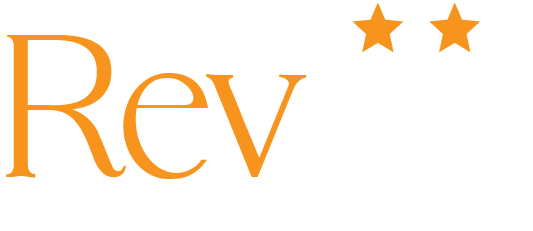
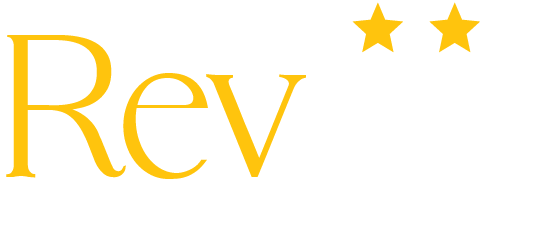
feature - new changes

Changed region(s): [[0.0, 0.1515, 0.5704, 0.7879], [0.8105, 0.0303, 0.9006, 0.2121], [0.6604, 0.0303, 0.7505, 0.2121]]

diff --git a/styles.css b/styles.css
@@ -1,83 +1,126 @@
 body {
-    width: 300px;
-    height: 380px;
-    margin: 0;
-    padding: 10px;
-    background-color: #2a2a2a;
-    font-family: 'Century Gothic', sans-serif;
-    color: rgb(255, 255, 255);
-  }
+  width: 300px;
+  height: 380px;
+  margin: 0;
+  padding: 10px;
+  background-color: #2a2a2a;
+  font-family: 'Century Gothic', sans-serif;
+  color: rgb(255, 255, 255);
+}
 
-  .tagline {
-    text-align: center;
-    font-family: 'Quicksand', sans-serif;
-    color: #f7941d;
-    text-shadow: 2px 2px 2px rgba(60, 60, 60, 0.5);
-    /* text-transform: uppercase; */
-  }
+.tagline {
+  text-align: center;
+  font-family: 'Poppins', sans-serif;
+  color: #FFC300;
+  text-shadow: 2px 2px 2px rgba(60, 60, 60, 0.5);
+  /* text-transform: uppercase; */
+}
 
-  img {
-    padding-top: 10px;
-    display: block;
-    margin: auto;
-    width: 127px;
-    height: 55px;
-  }
+img {
+  padding-top: 10px;
+  display: block;
+  margin: auto;
+  width: 127px;
+  height: 55px;
+}
 
-  form {
-    display: flex;
-    flex-direction: column;
-    justify-content: space-around;
-    height: 200px;
-  }
+form {
+  display: flex;
+  flex-direction: column;
+  justify-content: space-around;
+  height: 200px;
+}
 
-  .review-label {
-    font-size: 16px;
-    margin-bottom: 10px;
-    font-family: 'Quicksand', sans-serif;
+.review-label {
+  font-size: 16px;
+  margin-bottom: 10px;
+  font-family: 'Poppins', sans-serif;
 
-  }
+}
 
-  .review-textarea {
-    height: 100px;
-    resize: none;
-    font-size: 13px;
-    padding: 5px;
-    border: 1px solid #ffffff3a;
-    background-color: transparent;
-    color: #ffffff;
-    font-family: 'Quicksand', sans-serif;
-    transition: background-color 0.3s, color 0.3s;
-    border-radius: 10px;
-    overflow: hidden;
-  }
+.review-textarea {
+  height: 100px;
+  resize: none;
+  font-size: 13px;
+  padding: 5px;
+  border: 1px solid #ffffff3a;
+  background-color: transparent;
+  color: #ffffff;
+  font-family: 'Poppins', sans-serif;
+  transition: background-color 0.3s, color 0.3s;
+  border-radius: 10px;
+  overflow-y: scroll;
+  overflow: hidden;
+}
 
-  .submit-button {
-    font-size: 14px;
-    padding: 10px;
-    font-family: 'Quicksand', sans-serif;
-    background-color: #f7941d;
-    color: rgb(0, 0, 0);
-    border: none;
-    cursor: pointer;
-    font-weight: bold;
-    border-radius: 10px;
-  }
+.submit-button {
+  font-size: 14px;
+  padding: 10px;
+  font-family: 'Poppins', sans-serif;
+  background-color: #FFC300;
+  color: rgb(0, 0, 0);
+  border: none;
+  cursor: pointer;
+  font-weight: bold;
+  border-radius: 10px;
+}
 
-  .submit-button:disabled {
-    cursor: not-allowed;
-  }
+.submit-button:disabled {
+  cursor: not-allowed;
+}
 
-  p {
-    text-align: center;
-    font-size: 15px;
-    margin-top: 20px;
-    padding-bottom: 20px;
-  }
-  .similarity-percentage {
-    text-align: center;
-    font-size: 24px;
-    margin-top: 20px;
-    padding-bottom: 20px;
-    color: #fed401;
-  }
+p {
+  text-align: center;
+  font-size: 13px;
+  margin-top: 20px;
+  /* padding-bottom: 20px; */
+}
+.prediction-result{
+  font-size: 18px;
+}
+
+.similarity-percentage {
+  text-align: center;
+  font-size: 24px;
+  margin-top: 20px;
+  padding-bottom: 20px;
+  color: #FFC300;
+}
+
+.description {
+  font-size: 10px;
+}
+
+.hidden {
+  display: none;
+}
+
+.collapsed {
+  display: none;
+}
+
+.see-more-button {
+  background-color: transparent;
+  font-family: 'Poppins', sans-serif;
+  color: #FFC300;
+  border: none;
+  padding: 5px 10px;
+  font-size: 14px;
+  font-weight: bold;
+  cursor: pointer;
+  transition: background-color 0.3s, color 0.3s;
+  border-radius: 5px;
+  display: block;
+  margin: 20px auto; 
+}
+
+.see-more-button:hover {
+  text-decoration: underline;
+}
+
+.spinner{
+  display: none;
+  width: 20px;
+  height: 20px;
+  padding-bottom: 20px;
+}

diff --git a/popup.js b/popup.js
@@ -2,6 +2,11 @@ chrome.tabs.query({ active: true, currentWindow: true }, function (tabs) {
   var currentUrl = tabs[0].url;
   const form = document.getElementById('review-form');
   const submitButton = document.getElementById('submit-button');
+  const reviewResultDiv = document.getElementById('prediction-result');
+  const reviewSimilarity = document.getElementById('similarity-percentage');
+  const reviewSummarizedtDiv = document.getElementById('summarized-review');
+  const reviewSummaryResultDiv = document.getElementById('prediction-summary');
+
   submitButton.disabled = true;
   form.addEventListener('input', () => {
     submitButton.disabled = document.getElementById('review-text').value.trim() === '';
@@ -18,6 +23,11 @@ chrome.tabs.query({ active: true, currentWindow: true }, function (tabs) {
 
     try {
       submitButton.disabled = true;
+      reviewResultDiv.innerText = '';
+      reviewSimilarity.innerText = '';
+      reviewSummarizedtDiv.innerText = '';
+      reviewSummaryResultDiv.innerText = '';
+      document.getElementById('spinner').style.display = 'block';
 
       const response = await fetch('http://localhost:5000/predict', {
         method: 'POST',
@@ -35,11 +45,6 @@ chrome.tabs.query({ active: true, currentWindow: true }, function (tabs) {
         const summarizedReview = data.summarizedReview;
         const comparison = data.comparison;
 
-        const reviewResultDiv = document.getElementById('prediction-result');
-        const reviewSimilarity = document.getElementById('similarity-percentage');
-        const reviewSummarizedtDiv = document.getElementById('summarized-review');
-        const reviewSummaryResultDiv = document.getElementById('prediction-summary');
-
         reviewResultDiv.innerText = prediction === 0 ? 'This is a Genuine Review' : 'This Review contains Disinformation';
         reviewSimilarity.innerText = similarityPercentage ? `${similarityPercentage}% Similar to Overall Feedbacks` : 'Something went wrong';
         reviewSummarizedtDiv.innerText = summarizedReview ? summarizedReview : 'Something went wrong';
@@ -52,6 +57,33 @@ chrome.tabs.query({ active: true, currentWindow: true }, function (tabs) {
     }
     finally {
       submitButton.disabled = false;
+      document.getElementById('spinner').style.display = 'none';
     }
+
+    // Initially hide the p tags
+    reviewSimilarity.style.display = 'none';
+    reviewSummarizedtDiv.style.display = 'none';
+    reviewSummaryResultDiv.style.display = 'none';
+
+    // Show the "See More" button
+    let seeMoreButton = document.querySelector('.see-more-button');
+    if (!seeMoreButton) {
+      const seeMoreButton = document.createElement('button');
+      seeMoreButton.textContent = 'See More';
+      seeMoreButton.classList.add('see-more-button');
+      seeMoreButton.addEventListener('click', () => {
+        // Toggle the visibility of the p tags
+        const isVisible = reviewSimilarity.style.display !== 'none';
+        reviewSimilarity.style.display = isVisible ? 'none' : 'block';
+        reviewSummarizedtDiv.style.display = isVisible ? 'none' : 'block';
+        reviewSummaryResultDiv.style.display = isVisible ? 'none' : 'block';
+        // Toggle the button text
+        seeMoreButton.textContent = isVisible ? 'See More' : 'See Less';
+      });
+      // Append the button to the body or any other container
+      document.body.appendChild(seeMoreButton);
+    }
+
+
   });
 });

diff --git a/popup.html b/popup.html
@@ -5,7 +5,7 @@
   <title>TrueView</title>
   <link rel="stylesheet" type="text/css" href="styles.css">
   <!-- <meta http-equiv="Content-Security-Policy" content="script-src 'self' 'unsafe-inline' https://code.jquery.com;" /> -->
-  
+
 </head>
 
 <body>
@@ -18,10 +18,14 @@
     <textarea id="review-link-text"></textarea><br> -->
     <button class="submit-button" id="submit-button">Check the Review</button>
   </form>
-  <p id="prediction-result"></p>
-  <p id="similarity-percentage" class="similarity-percentage"></p>
-  <p id="summarized-review"></p>
-  <p id="prediction-summary"></p>
+  <p class="description">All the Outputs are based on Google Maps Reviews</p>
+  <img class="spinner" id="spinner" src="img/loading-gif.gif" alt="Loading...">
+  <p id="prediction-result" class="prediction-result"></p>
+  <p id="similarity-percentage" class="similarity-percentage hidden"></p>
+  <p id="summarized-review" class="summarized-review hidden"></p>
+  <p id="prediction-summary" class="prediction-summary hidden"></p>
+  <!-- <button id="see-more-button" class="see-more-button hidden">See More</button> -->
+
   <script src="popup.js"></script>
 </body>
 
